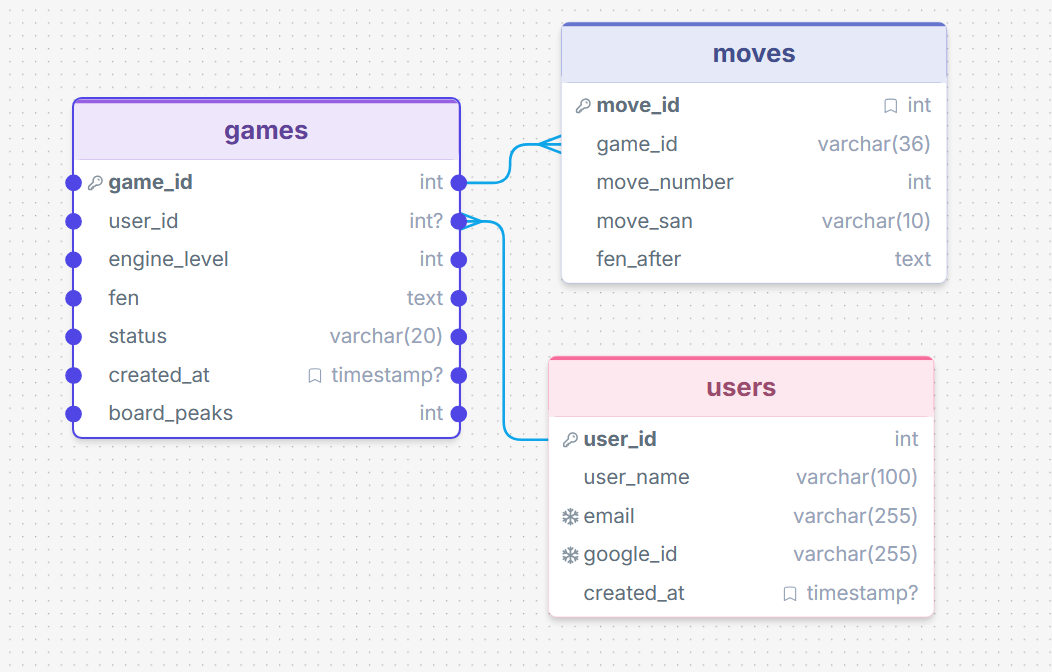
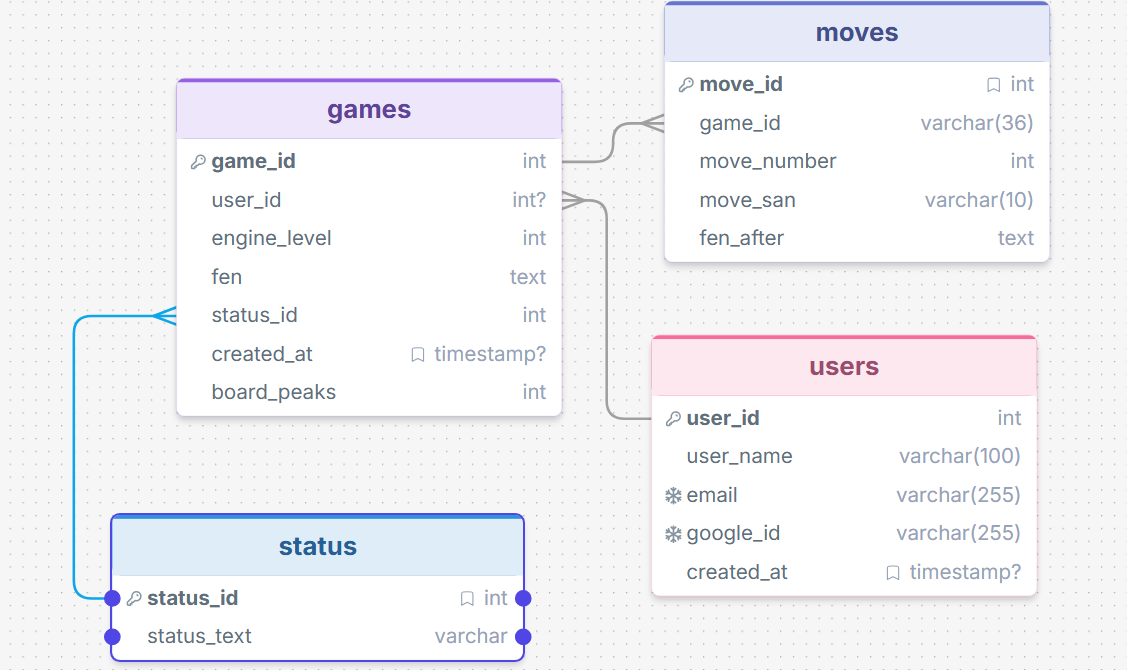
game schema and models

Changed region(s): [[0.0608, 0.0, 0.943, 1.0], [0.2433, 0.806, 0.3346, 0.8358], [0.1825, 0.4478, 0.2738, 0.4776]]

diff --git a/server/src/main/java/learn/blindchess/model/Game.java b/server/src/main/java/learn/blindchess/model/Game.java
@@ -1,0 +1,106 @@
+package learn.blindchess.model;
+
+import java.time.LocalDateTime;
+import java.util.Objects;
+
+public class Game {
+
+    private int gameId;
+    private int engineLevel;
+    private String fen;
+    private GameStatus status;
+    private LocalDateTime createdAt;
+    private int boardPeaks;
+    private User user;
+
+    public Game(Game game) {
+        this.gameId = game.getGameId();
+        this.engineLevel = game.getEngineLevel();
+        this.status = game.getStatus();
+        this.createdAt = game.getCreatedAt();
+        this.boardPeaks = game.getBoardPeaks();
+        this.user = game.getUser();
+        this.fen = game.getFen();
+    }
+
+    public int getGameId() {
+        return gameId;
+    }
+
+    public void setGameId(int gameId) {
+        this.gameId = gameId;
+    }
+
+    public int getEngineLevel() {
+        return engineLevel;
+    }
+
+    public void setEngineLevel(int engineLevel) {
+        this.engineLevel = engineLevel;
+    }
+
+    public String getFen() {
+        return fen;
+    }
+
+    public void setFen(String fen) {
+        this.fen = fen;
+    }
+
+    public GameStatus getStatus() {
+        return status;
+    }
+
+    public void setStatus(GameStatus status) {
+        this.status = status;
+    }
+
+    public LocalDateTime getCreatedAt() {
+        return createdAt;
+    }
+
+    public void setCreatedAt(LocalDateTime createdAt) {
+        this.createdAt = createdAt;
+    }
+
+    public int getBoardPeaks() {
+        return boardPeaks;
+    }
+
+    public void setBoardPeaks(int boardPeaks) {
+        this.boardPeaks = boardPeaks;
+    }
+
+    public User getUser() {
+        return user;
+    }
+
+    public void setUser(User user) {
+        this.user = user;
+    }
+
+    @Override
+    public boolean equals(Object o) {
+        if (o == null || getClass() != o.getClass()) return false;
+        Game game = (Game) o;
+        return gameId == game.gameId && engineLevel == game.engineLevel && boardPeaks == game.boardPeaks && Objects.equals(fen, game.fen) && status == game.status && Objects.equals(createdAt, game.createdAt) && Objects.equals(user, game.user);
+    }
+
+    @Override
+    public int hashCode() {
+        return Objects.hash(gameId, engineLevel, fen, status, createdAt, boardPeaks, user);
+    }
+
+    @Override
+    public String toString() {
+        return "Game{" +
+                "gameId=" + gameId +
+                ", engineLevel=" + engineLevel +
+                ", fen='" + fen + '\'' +
+                ", status=" + status +
+                ", createdAt=" + createdAt +
+                ", boardPeaks=" + boardPeaks +
+                ", user=" + user +
+                '}';
+    }
+}

diff --git a/server/src/main/java/learn/blindchess/model/GameStatus.java b/server/src/main/java/learn/blindchess/model/GameStatus.java
@@ -1,0 +1,8 @@
+package learn.blindchess.model;
+
+public enum GameStatus {
+    WHITE_WIN,
+    BLACK_WIN,
+    DRAW,
+    IN_PROGRESS
+}
